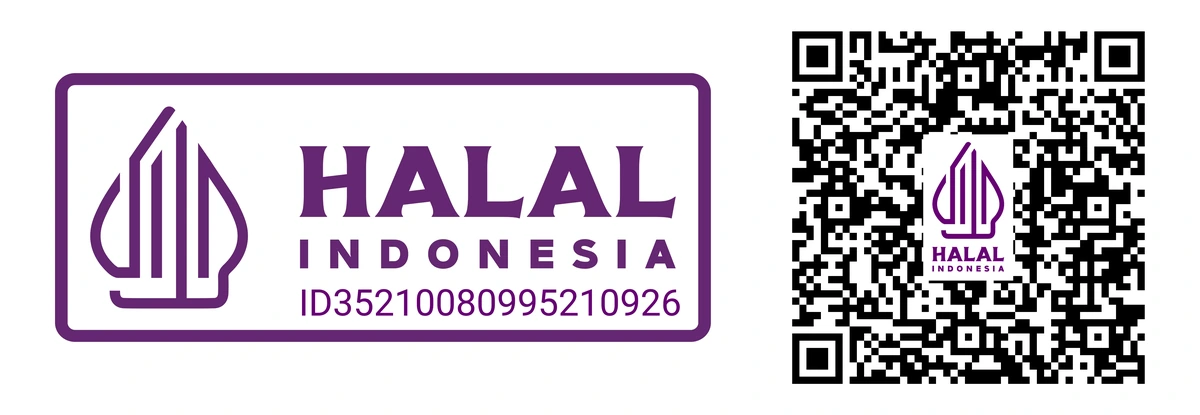
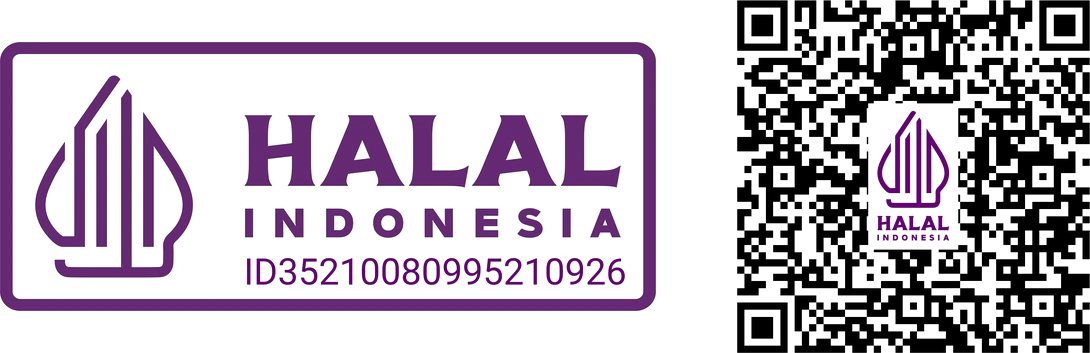
Buat latar label halal bening agar menyatu dengan halaman
Latar putih label Halal Indonesia dipisahkan dari tinta ungu dan kode
QR, lalu kartu putih di sekelilingnya dihapus.

Claude-Session: https://claude.ai/code/session_01BpCvTtd25egumo8wHJHyXL

diff --git a/dalwa-coffee/styles.css b/dalwa-coffee/styles.css
@@ -140,14 +140,14 @@ body::before { content: ""; position: fixed; inset: 0 0 auto; height: env(safe-a
 .brew-card dt { font-size: 11px; letter-spacing: .14em; text-transform: uppercase; color: var(--muted); }
 .brew-card dd { font-family: var(--display); font-size: clamp(22px, 2.8vw, 34px); line-height: 1.15; margin-top: 4px; font-variant-numeric: tabular-nums; }
 .brew-card p { grid-column: 1 / -1; padding: 14px; border-top: 1px solid var(--line); color: var(--muted); font-size: 14px; }
-/* lencana halal: label resmi di atas kartu putih, karena labelnya berlatar putih */
+/* lencana halal: label resmi dengan latar putih yang sudah dibuat bening, langsung di atas warna halaman */
 .halal { border-top: 1px solid var(--line); }
 .halal-in { max-width: 1160px; margin: 0 auto; padding: 44px var(--gut-r) 44px var(--gut-l); display: grid; grid-template-columns: minmax(0, 1fr) minmax(0, 460px); gap: 24px 48px; align-items: center; }
 .halal-text { display: flex; flex-direction: column; gap: 8px; min-width: 0; }
 .halal-text h2 { font-family: var(--display); font-size: clamp(32px, 3.6vw, 48px); line-height: .95; text-transform: uppercase; }
 .halal-text p:last-child { color: var(--muted); max-width: 46ch; }
 .halal-no { color: var(--ink); font-weight: 600; font-variant-numeric: tabular-nums; white-space: nowrap; }
-.halal-badge { width: 100%; height: auto; background: #fff; border-radius: 14px; padding: 14px 18px; box-shadow: 0 10px 30px rgba(27, 34, 51, .1); }
+.halal-badge { width: 100%; height: auto; }
 @media (max-width: 820px) { .halal-in { grid-template-columns: 1fr; padding-block: 36px; } .halal-badge { max-width: 440px; } }
 
 .foot { padding: 40px var(--gut-r) calc(44px + env(safe-area-inset-bottom, 0px)) var(--gut-l); display: flex; flex-direction: column; align-items: center; gap: 6px; text-align: center; border-top: 1px solid var(--line); }

diff --git a/dalwa-coffee/index.html b/dalwa-coffee/index.html
@@ -98,7 +98,7 @@
         <h2 id="halalJudul">Halal Indonesia</h2>
         <p>Seluruh kopi bubuk Dalwa bersertifikat halal. Nomor sertifikat <b class="halal-no">ID35210080995210926</b>. Pindai kode QR untuk memeriksa keasliannya.</p>
       </div>
-      <img class="halal-badge" src="assets/halal/label-halal.webp" width="1200" height="415" loading="lazy"
+      <img class="halal-badge" src="assets/halal/label-halal.webp" width="1090" height="353" loading="lazy"
         alt="Label Halal Indonesia dengan nomor sertifikat ID35210080995210926 dan kode QR untuk verifikasi">
     </div>
   </section>
